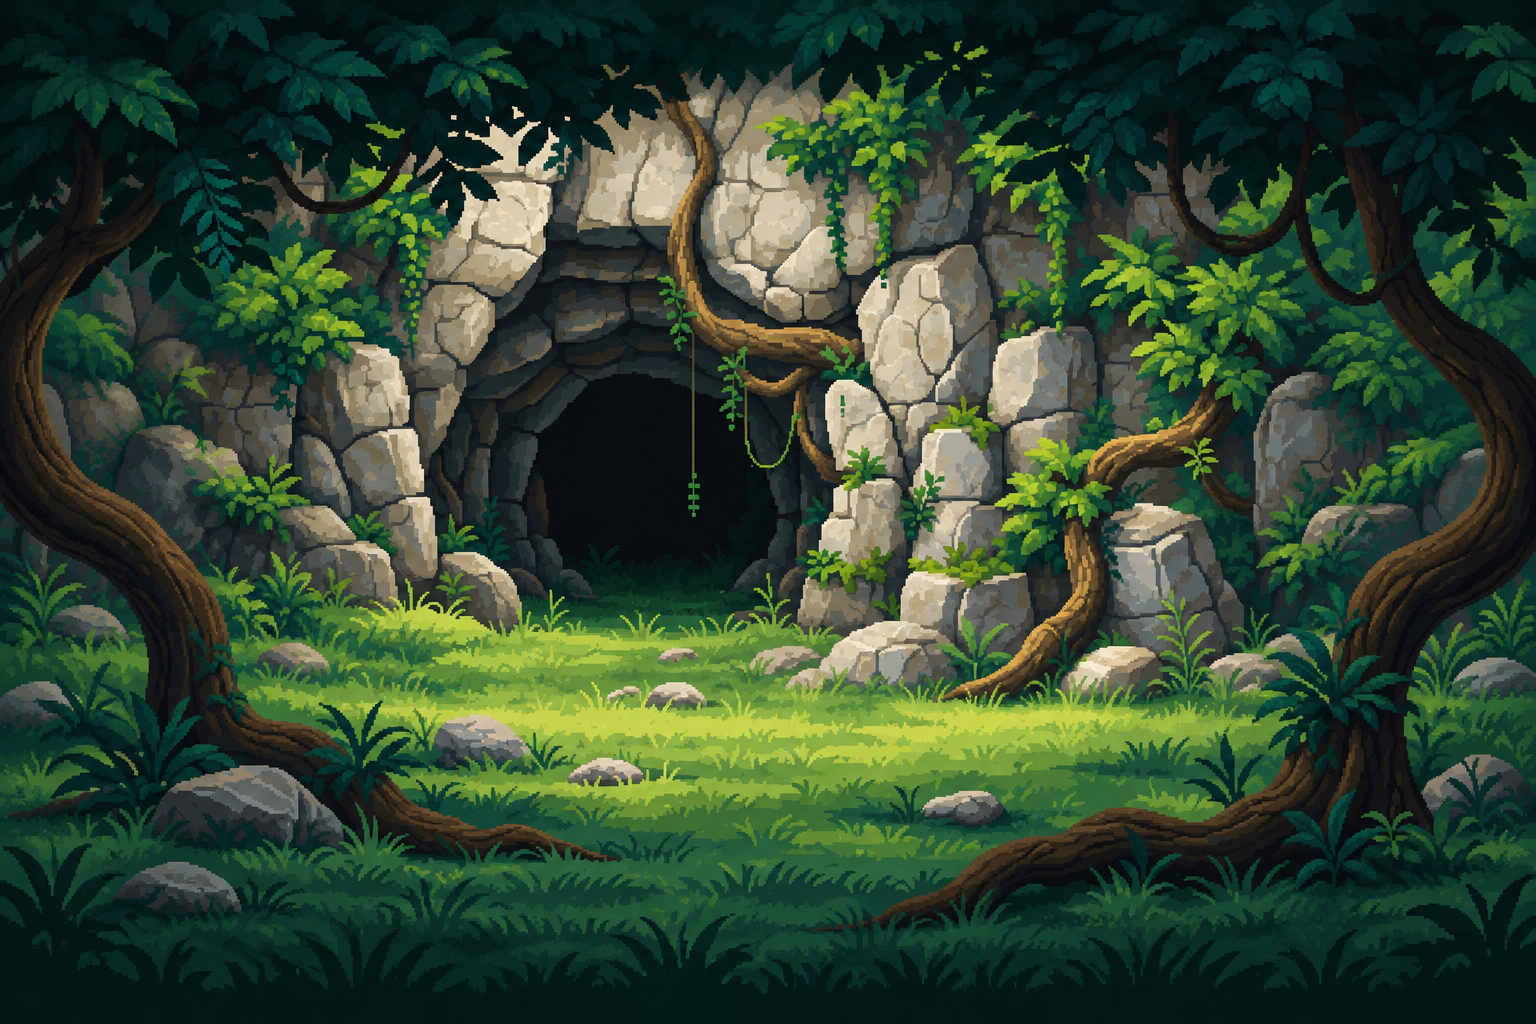
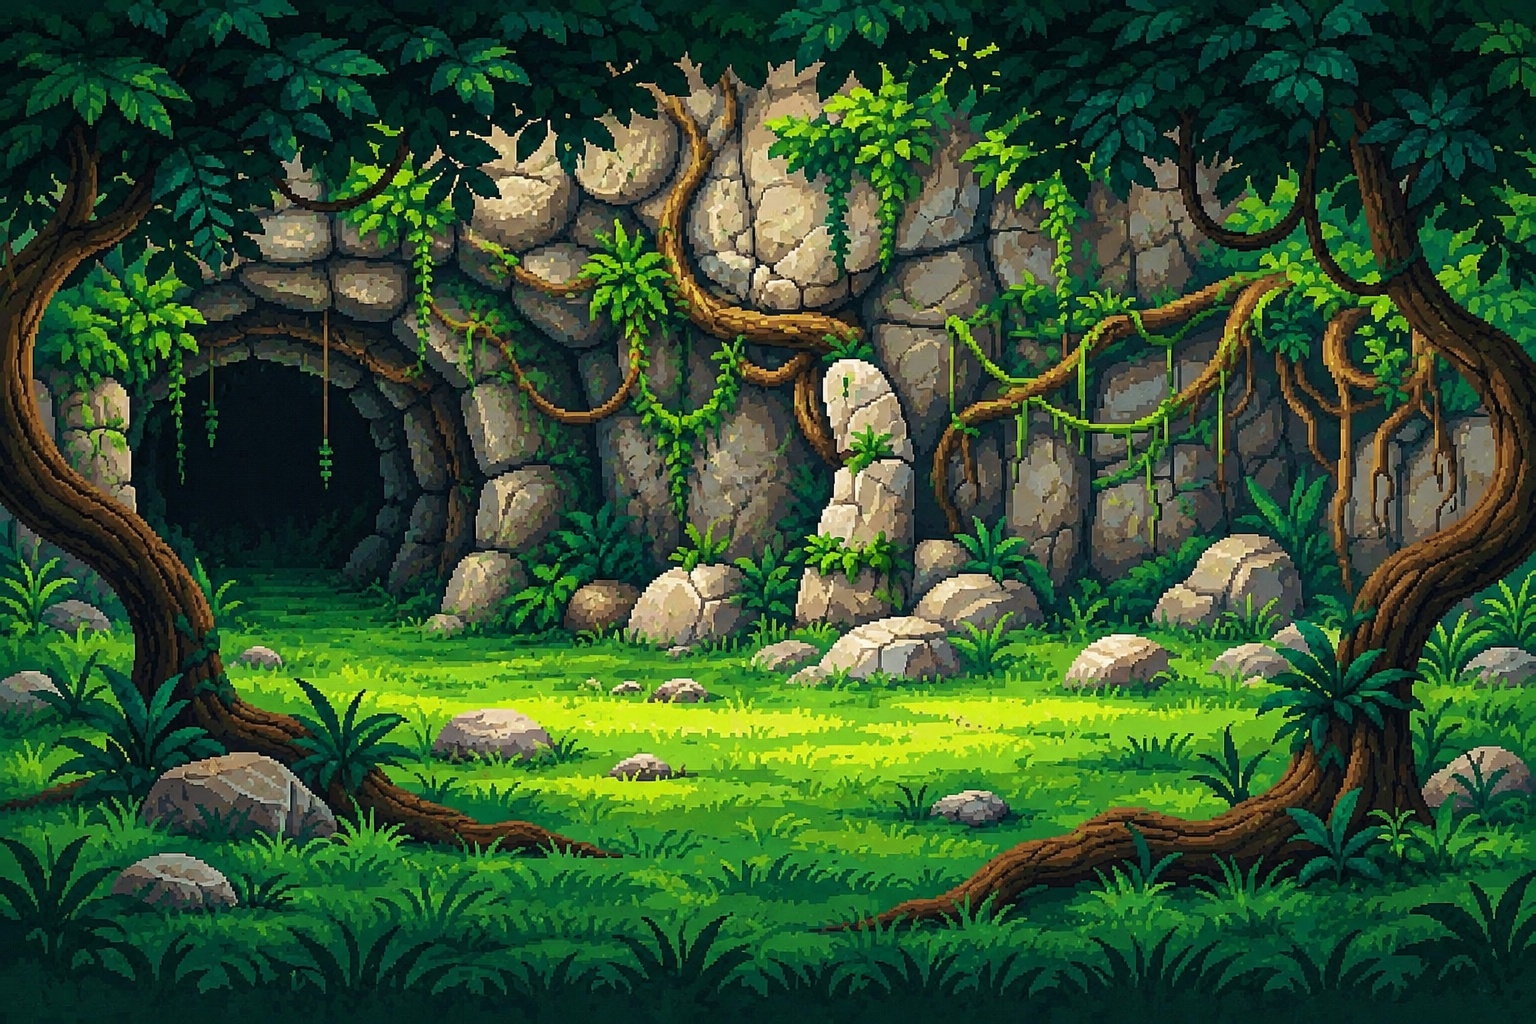
feat(ui): home page completed

diff --git a/src/App.tsx b/src/App.tsx
@@ -6,6 +6,9 @@ import ParchmentDisplay from './assets/ParchmentDisplay.png';
 import TrialsLeaf from './assets/leaf.png';
 import LabyrinthEntrance from './assets/LabyrinthEntrance.png';
 import StartTrials from './assets/StartTrials.png';
+import ArchiveArtwork from './assets/archive.png';
+import BookIcon from './assets/book.jpg';
+import AgentIconRow from './assets/Pixel-Art AI Icon Row.png';
 
 const navigationItems = ['Home', 'Trials', 'Agents', 'Archives'];
 
@@ -26,26 +29,28 @@ function App() {
             <p>The Agentic Trials</p>
           </div>
         </div>
-        <nav aria-label="Main navigation" className="home-navbar">
-          <img alt="" className="navbar-artwork" src={NavBarArtwork} />
-          <div className="navbar-labels">
-            {navigationItems.map((item) => {
-              const isCurrentPage = currentPage === item;
+        {currentPage !== 'Home' && (
+          <nav aria-label="Main navigation" className="home-navbar">
+            <img alt="" className="navbar-artwork" src={NavBarArtwork} />
+            <div className="navbar-labels">
+              {navigationItems.map((item) => {
+                const isCurrentPage = currentPage === item;
 
-              return (
-                <button
-                  aria-current={isCurrentPage ? 'page' : undefined}
-                  className={`navbar-label${isCurrentPage ? ' is-active' : ''}`}
-                  key={item}
-                  onClick={() => setCurrentPage(item)}
-                  type="button"
-                >
-                  {item}
-                </button>
-              );
-            })}
-          </div>
-        </nav>
+                return (
+                  <button
+                    aria-current={isCurrentPage ? 'page' : undefined}
+                    className={`navbar-label${isCurrentPage ? ' is-active' : ''}`}
+                    key={item}
+                    onClick={() => setCurrentPage(item)}
+                    type="button"
+                  >
+                    {item}
+                  </button>
+                );
+              })}
+            </div>
+          </nav>
+        )}
         <div className="home-profile">
           <img alt="Profile nameplate with an empty portrait frame" src={ProfileArtwork} />
         </div>
@@ -72,6 +77,59 @@ function App() {
                   type="button"
                 >
                   <img alt="" src={StartTrials} />
+                </button>
+              </div>
+            </section>
+            <section aria-labelledby="agents-heading" className="agents-content">
+              <button
+                aria-label="Go to Agents"
+                className="section-hit-area"
+                onClick={() => setCurrentPage('Agents')}
+                type="button"
+              />
+              <h2 className="noticeboard-heading" id="agents-heading">
+                <svg aria-hidden="true" className="noticeboard-icon" shapeRendering="crispEdges" viewBox="0 0 16 16">
+                  <rect fill="#704025" height="4" width="4" x="1" y="1" />
+                  <rect fill="#704025" height="4" width="4" x="6" y="0" />
+                  <rect fill="#704025" height="4" width="4" x="11" y="1" />
+                  <rect fill="#8b5431" height="7" width="5" x="0" y="6" />
+                  <rect fill="#c27f40" height="9" width="6" x="5" y="5" />
+                  <rect fill="#426b43" height="7" width="5" x="11" y="6" />
+                </svg>
+                <span>Agents</span>
+              </h2>
+              <div className="agents-preview">
+                <img alt="Four pixel-art agent icons" className="agent-icon-row" src={AgentIconRow} />
+                <button
+                  aria-label="Go to Agents"
+                  className="section-arrow"
+                  onClick={() => setCurrentPage('Agents')}
+                  type="button"
+                >
+                  ›
+                </button>
+              </div>
+            </section>
+            <section aria-labelledby="archive-heading" className="archive-content">
+              <button
+                aria-label="Go to Archives"
+                className="section-hit-area"
+                onClick={() => setCurrentPage('Archives')}
+                type="button"
+              />
+              <h2 className="noticeboard-heading" id="archive-heading">
+                <img alt="" className="noticeboard-icon archive-icon" src={BookIcon} />
+                <span>Archive</span>
+              </h2>
+              <div className="archive-preview">
+                <img alt="A bookshelf with books, a globe, and a leafy plant" className="archive-artwork" src={ArchiveArtwork} />
+                <button
+                  aria-label="Go to Archives"
+                  className="section-arrow"
+                  onClick={() => setCurrentPage('Archives')}
+                  type="button"
+                >
+                  ›
                 </button>
               </div>
             </section>

diff --git a/src/styles.css b/src/styles.css
@@ -49,6 +49,10 @@ body {
   background-image: url('./assets/TrialBackground.png');
 }
 
+.starter:not(.stone-page) {
+  background-position: center calc(50% + 12vh);
+}
+
 .home-header {
   position: relative;
   width: 100%;
@@ -189,6 +193,7 @@ body {
 }
 
 .home-profile {
+  grid-column: 3;
   width: 100%;
   max-width: 245px;
   justify-self: end;
@@ -330,6 +335,161 @@ body {
   outline-offset: 3px;
 }
 
+.agents-content,
+.archive-content {
+  position: absolute;
+  left: 62%;
+  width: 31%;
+  display: flex;
+  flex-direction: column;
+  min-width: 0;
+  min-height: 0;
+  pointer-events: auto;
+  text-align: left;
+}
+
+.agents-content {
+  top: 18%;
+  height: 28%;
+}
+
+.archive-content {
+  top: 55%;
+  height: 30%;
+}
+
+.section-hit-area {
+  position: absolute;
+  z-index: 0;
+  inset: 0;
+  width: 100%;
+  padding: 0;
+  border: 0;
+  background: transparent;
+  cursor: pointer;
+}
+
+.noticeboard-heading,
+.agents-preview,
+.archive-preview {
+  position: relative;
+  z-index: 1;
+  pointer-events: none;
+}
+
+.noticeboard-heading {
+  display: flex;
+  flex: 0 0 auto;
+  align-items: center;
+  gap: clamp(4px, .7vw, 9px);
+  margin: 0;
+  color: #563923;
+  font-family: 'IM Fell English SC', Georgia, serif;
+  font-size: clamp(12px, 1.8vw, 25px);
+  font-weight: 400;
+  letter-spacing: clamp(.5px, .12vw, 1.5px);
+  line-height: 1;
+  text-shadow: 0 1px #fff0c8;
+}
+
+.noticeboard-icon {
+  display: inline-block;
+  flex: 0 0 auto;
+  width: clamp(14px, 1.8vw, 23px);
+  height: clamp(14px, 1.8vw, 23px);
+  line-height: 1;
+}
+
+.archive-icon {
+  width: clamp(20px, 2.3vw, 30px);
+  height: clamp(20px, 2.3vw, 30px);
+  object-fit: contain;
+  mix-blend-mode: multiply;
+}
+
+.agents-preview {
+  display: flex;
+  flex: 1 1 auto;
+  align-items: center;
+  justify-content: space-between;
+  gap: clamp(2px, .45vw, 7px);
+  min-height: 0;
+}
+
+.agent-icon-row {
+  display: block;
+  flex: 1 1 auto;
+  width: 0;
+  height: 100%;
+  min-width: 0;
+  object-fit: contain;
+  image-rendering: pixelated;
+  user-select: none;
+  -webkit-user-drag: none;
+}
+
+.section-arrow {
+  pointer-events: auto;
+  flex: 0 0 auto;
+  display: grid;
+  place-items: center;
+  width: clamp(16px, 2vw, 28px);
+  height: clamp(24px, 3vw, 40px);
+  padding: 0;
+  border: 0;
+  background: transparent;
+  color: #704025;
+  font-family: Georgia, serif;
+  font-size: clamp(22px, 3vw, 38px);
+  font-weight: 700;
+  line-height: 1;
+  text-shadow: 0 1px #fff1cf;
+  cursor: pointer;
+  transition: color .14s ease, transform .14s ease;
+}
+
+.section-arrow:hover {
+  color: #a45f2d;
+  transform: translateX(2px);
+}
+
+.section-arrow:focus-visible {
+  outline: 2px solid #704025;
+  outline-offset: 1px;
+}
+
+.archive-preview {
+  position: relative;
+  display: flex;
+  flex: 1 1 auto;
+  align-items: center;
+  justify-content: center;
+  min-height: 0;
+}
+
+.archive-artwork {
+  display: block;
+  width: 84%;
+  height: 100%;
+  object-fit: contain;
+  transform: translateY(clamp(-16px, -1.2vw, -4px));
+  image-rendering: pixelated;
+  user-select: none;
+  -webkit-user-drag: none;
+}
+
+.archive-preview .section-arrow {
+  pointer-events: auto;
+  position: absolute;
+  top: 50%;
+  right: 0;
+  transform: translateY(-50%);
+}
+
+.archive-preview .section-arrow:hover {
+  transform: translate(2px, -50%);
+}
+
 @media (max-width: 700px) {
   .starter {
     background-attachment: scroll;
@@ -353,6 +513,7 @@ body {
   }
 
   .home-profile {
+    grid-column: 2;
     width: min(100%, 190px);
   }
 
